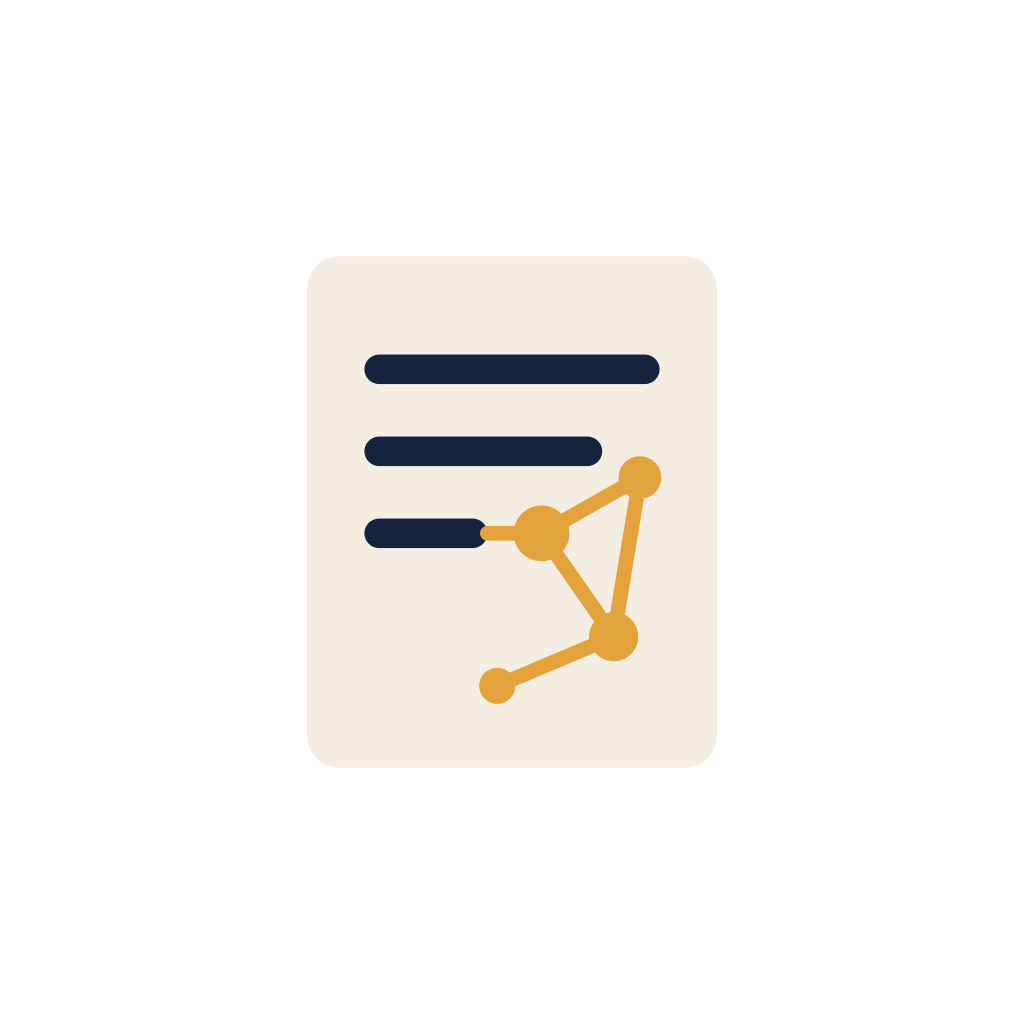
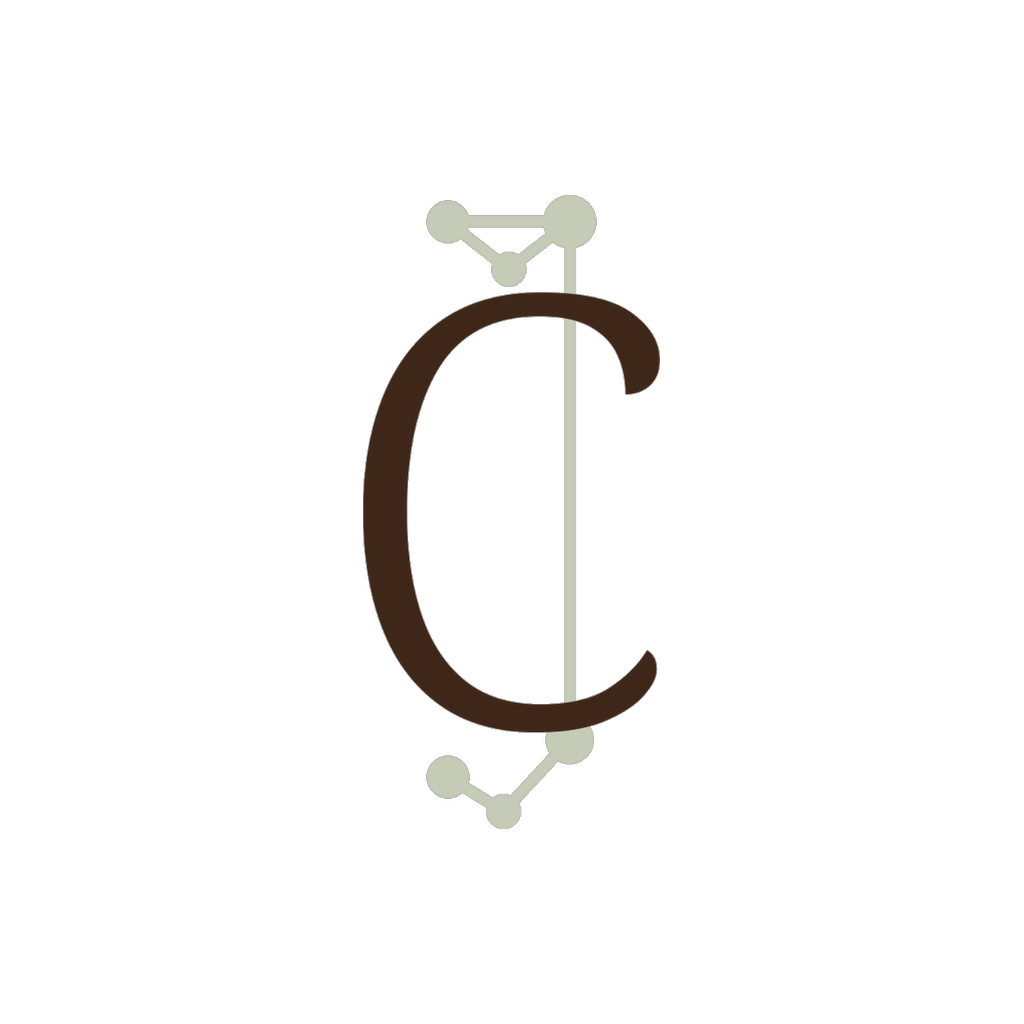
fix(release): sideload signing guard + cj-c-v3 Android brand + review hygiene (MAJOR 7.0.0)
Spec: specs/2026-11-06-sideload-signing-brand-followup/spec.md

Release-blocking fixes from the #86/#85 high-depth reviews:
- Guard plugin refuses local *Release* gradle tasks when
  credentials/keystore.properties is absent (fresh clones would
  silently sign with the PUBLIC debug keystore); no-op on EAS.
- VERSIONING.md: mandatory post-build keytool cert check vs the
  upload-key SHA-256; upload-key lineage of record stated (GitHub
  APKs from 7.0.0 = upload keystore); bullet 1/3 migration-note
  contradiction resolved; store step 2 marked done with its open
  obligation moved to the store checklist; github-apk profile
  lineage warning added.
- Android adaptive set + splash derived from the approved 1024
  master (the #85 spec's own deferred follow-up): keyed monogram
  foreground in the safe zone, cream background field, white
  monochrome silhouette, rounded-tile splash icon.

Hygiene (9 findings): README specs path -> specs/; AGENTS.md single
decisions list; .gitignore /credentials/ rule documented and
/credentials.json dedupe; store previews -> JPEG (~75% smaller);
merged #85 spec Files-touched completed.

MAJOR 7.0.0: adaptive/splash assets + app.json plugin regenerate the
native tree (VERSIONING.md rule 1). Verified: prebuild guard +
versionName/runtime stamps, lint 0 errors, tsc clean, 362 tests pass.

Changed region(s): [[0.2812, 0.1875, 0.7188, 0.8125]]

diff --git a/plugins/with-sideload-release-guard.js b/plugins/with-sideload-release-guard.js
@@ -1,0 +1,43 @@
+const { withAppBuildGradle } = require("@expo/config-plugins");
+
+/**
+ * Sideload release guard (specs/2026-11-06-sideload-signing-brand-followup).
+ *
+ * The template build.gradle signs release builds with the PUBLIC debug
+ * keystore whenever ../credentials/keystore.properties is missing — the
+ * state of every fresh clone. This plugin appends a Gradle guard that
+ * fails any `*Release*` task loudly in that situation, so a release APK
+ * can never silently extend the public debug-key lineage.
+ *
+ * No-op when keystore.properties exists (local builds sign via the
+ * template's own wiring) and on EAS, which supplies its own
+ * keystore.properties during store builds.
+ */
+const GUARD = `
+// Sideload release guard — specs/2026-11-06-sideload-signing-brand-followup
+// Refuse release builds that would silently sign with the public debug
+// keystore. EAS supplies its own keystore.properties during store builds,
+// so this only fires on machines missing credentials/.
+if (!System.getenv("EAS_BUILD") && !rootProject.file("../credentials/keystore.properties").exists()) {
+    tasks.whenTaskAdded { task ->
+        if (task.name.contains("Release")) {
+            task.doFirst {
+                throw new GradleException(
+                    "Release build refused: ../credentials/keystore.properties is missing, so this build would be signed with the PUBLIC debug keystore. Restore credentials/ (see docs/VERSIONING.md) or build on EAS."
+                )
+            }
+        }
+    }
+}
+`;
+
+const withSideloadReleaseGuard = (config) =>
+  withAppBuildGradle(config, (mod) => {
+    if (mod.modResults.contents.includes("Sideload release guard")) {
+      return mod; // idempotent across repeated prebuilds
+    }
+    mod.modResults.contents += GUARD;
+    return mod;
+  });
+
+module.exports = withSideloadReleaseGuard;

diff --git a/specs/2026-11-06-sideload-signing-brand-followup/spec.md b/specs/2026-11-06-sideload-signing-brand-followup/spec.md
@@ -1,0 +1,140 @@
+# Spec: sideload signing guard + brand follow-up + review-hygiene
+
+**Status: Draft** — 2026-11-06. One PR carries spec + plan + implementation
++ version bump; `plan.md`/`LEDGER.md` are transient and deleted in the
+same-PR cleanup commit (AGENTS.md SDD workflow).
+
+## Why this cycle exists
+
+Three sources converge:
+
+1. **#86 high-depth review (finding 1, release-blocking):** VERSIONING.md
+   declares the public debug keystore retired as a GitHub-APK identity,
+   but nothing enforces it. The generated `android/app/build.gradle`
+   signs release builds with `debug.keystore` whenever
+   `../credentials/keystore.properties` is absent — the state of every
+   fresh clone (`credentials/` is gitignored) — and the old
+   `keytool -printcert` verification step was deleted in #86. A release
+   built from a fresh clone would silently extend the public-key
+   lineage past v5.0.0, which the doc says must never happen.
+2. **#85 high-depth review (finding 1, release-blocking):** the brand
+   cycle replaced `icon.png`/`favicon.png` but not the Android adaptive
+   set; with `minSdkVersion: 26` every supported Android device renders
+   `android.adaptiveIcon.foregroundImage` — still the old placeholder
+   art. The merged spec's own "Splash drift (accepted)" ruling deferred
+   adaptive icons and `splash-icon.png` to a fast follow-up "that wires
+   it into app.json properly"; this is that follow-up.
+3. **#86/#85 reviews (9 further findings):** docs and repo hygiene that
+   this cycle fixes inline (user ruling 2026-11-06: "fix everything
+   now").
+
+Checked against `INTENT.md`: no rule touched. Rule 10 drives the bump:
+both blockers feed native prebuild (adaptive/splash assets regenerate
+launcher and splash resources; the guard adds an `app.json` plugin), the
+regenerated tree differs beyond version stamps → **MAJOR**. No network,
+no background work, no privacy-surface change (rules 1–14 unaffected).
+
+## Requirements
+
+### R1 — Local release builds can never silently sign with the debug keystore
+
+- `plugins/with-sideload-release-guard.js`: an Expo config plugin whose
+  Android mod appends a Gradle guard to `android/app/build.gradle`:
+  when `../credentials/keystore.properties` does not exist (and the
+  build is not on EAS, which supplies its own `keystore.properties`),
+  every task whose name contains `Release` fails at execution with a
+  GradleException naming `docs/VERSIONING.md` as the remedy. Debug
+  builds and non-build tasks are unaffected.
+- Wired in `app.json` `plugins` as a local plugin (`"./plugins/with-sideload-release-guard"`).
+- No-op when `keystore.properties` exists (the EAS store-build path is
+  untouched; the template's own keystore.properties wiring does the
+  signing).
+
+### R2 — GitHub-APK signing lineage is explicit and verifiable
+
+- Local release builds sign with the EAS upload keystore via the
+  existing `../credentials/keystore.properties` (SHA-1
+  `10:F4:9C:AF:F4:78:3F:75:D8:0A:F8:E8:95:CA:C7:9C:03:1B:14:48`,
+  SHA-256
+  `E9:45:EC:20:6C:3A:03:C5:BC:99:AB:D4:BA:8F:A8:33:57:61:0E:DB:40:AF:67:9E:8C:59:0C:52:51:57:EF:70`,
+  verified 2026-11-06 with `keytool -list` against
+  `credentials/android/keystore.jks`).
+- VERSIONING.md release train gains a mandatory post-build certificate
+  check (`keytool -printcert -jarfile`) that must match the recorded
+  SHA-256 before any release ships; mismatch = stop.
+
+### R3 — Android adaptive set and splash carry the cj-c-v3 brand
+
+Derived from the approved 1024 master (`assets/images/icon.png`) — no
+designer variants exist for these slots; the derivation is this cycle's
+recorded ruling and the PR shows the rendered results:
+
+- `android-icon-foreground.png`: monogram-only (C + sage J keyed out of
+  the cream field), scaled to fit the adaptive safe zone (~62% of the
+  1024 canvas), centered on transparency.
+- `android-icon-background.png`: solid cream field sampled from the
+  master (replaces the navy placeholder background so the masked tile
+  matches the iOS icon).
+- `android-icon-monochrome.png`: white silhouette of the same keyed
+  monogram at the same scale/placement (Android 13+ themed icons).
+- `splash-icon.png`: brand mark prepared for the navy splash
+  background — the master rendered inside a cream rounded-square tile
+  (`app.json` splash `imageWidth: 160` unchanged; splash
+  `backgroundColor` stays `#16233F`).
+- `android.adaptiveIcon.backgroundColor` stays `#16233F` (fallback only).
+
+### R4 — Review hygiene (9 findings, all docs/assets plumbing)
+
+1. `README.md` contributor section points specs at `specs/` (was
+   `docs/superpowers/specs/`).
+2. Merged spec `specs/2026-11-05-brand-favicons/spec.md` "Files touched"
+   amended to list everything that PR actually touched (INTENT.md,
+   app.json, package.json, package-lock.json were omitted).
+3. Store preview mockups (`curated-journal-banner-preview.png`,
+   `curated-journal-store-assets-preview.png`) converted to JPEG
+   (Play accepts it; ~70% weight cut). Deliverable PNGs stay. Git
+   history keeps the original blobs — noted, not rewritten.
+4. `AGENTS.md` "where decisions live" stated once: charter INTENT.md,
+   versioning docs/VERSIONING.md, in-flight cycles the spec folder,
+   everything else the recorded history (issues/PRs) — the duplicate
+   Spec-workflow bullet is removed.
+5. VERSIONING.md: the `github-apk` EAS profile mention carries its
+   lineage warning (an EAS- or upload-key-built APK does not install
+   over fielded debug-signed sideloads).
+6. VERSIONING.md: bullet 1 vs bullet 3 contradiction resolved in bullet
+   3's favor — hand-migration warnings are required only for releases
+   whose signing key changed (that includes R2's lineage statement).
+7. VERSIONING.md: store-release step 2 rewritten as completed one-time
+   setup (past tense), with its still-open obligation (verify upload
+   key under Play App integrity; record the Google app-signing key)
+   moved into the store checklist.
+8. VERSIONING.md: the upload-key SHA-1 gains a verify command
+   (`keytool -list` against `credentials/android/keystore.jks`) and a
+   mismatch consequence.
+9. `.gitignore`: `/credentials/` rule commented; duplicated
+   `/credentials.json` rules collapsed to one.
+
+## Acceptance criteria
+
+- `npx expo prebuild --platform android --no-install` on this branch:
+  generated `build.gradle` contains the guard; with
+  `credentials/keystore.properties` present, release signing config is
+  the upload keystore; guard is a no-op.
+- With `credentials/keystore.properties` temporarily renamed, the guard
+  makes any `*Release*` Gradle task fail loudly (verified by inspecting
+  the generated guard; the execution-path test happens at the release
+  train, not in CI).
+- Image outputs verified: 1024×1024, correct alpha behavior (foreground
+  transparent margins; monochrome white; background opaque cream).
+- `npm run lint` 0 errors; `npx tsc --noEmit` clean; jest suite green.
+- Version bumped to **7.0.0** in `package.json`, `app.json`,
+  `package-lock.json` (three synced files, same PR).
+
+## Non-goals
+
+- No runtime/app-code changes; no privacy-surface change.
+- No store submissions, tags, or builds in this PR (the release train
+  follows at merge, per docs/VERSIONING.md, only when the user says so).
+- No git-history rewrite for the preview PNG blobs.
+- No new signing identity: the EAS upload keystore remains the store
+  upload key and, from 7.0.0, the GitHub-APK sideload lineage of record.

diff --git a/docs/VERSIONING.md b/docs/VERSIONING.md
@@ -57,7 +57,15 @@ moves on a MAJOR, so this test behaves as originally intended —
    files for what shipped — and confirm the manifest meta-data on the artifact
    with `aapt2 dump xmltree --file AndroidManifest.xml` (the
    `EXPO_UPDATES_CHECK_ON_LAUNCH` entry must say `NEVER`; `dump badging` does
-   not show manifest meta-data).
+   not show manifest meta-data). **And verify the signing certificate:**
+   `keytool -printcert -jarfile android/app/build/outputs/apk/release/app-release.apk`
+   must show SHA-256
+   `E9:45:EC:20:6C:3A:03:C5:BC:99:AB:D4:BA:8F:A8:33:57:61:0E:DB:40:AF:67:9E:8C:59:0C:52:51:57:EF:70`
+   (the upload-key lineage of record, verified 2026-11-06). Any other
+   certificate — above all `FA:C6:17:45:…:3B:9C`, the public debug key — means
+   the build fell back to the debug keystore: stop, restore
+   `credentials/keystore.properties`, rebuild. (The guard plugin refuses such
+   builds outright; this check is the backstop.)
 5. Tag `vX.Y.Z` at the merge commit of the PR that carried the bump, create the
    GitHub release with the APK attached, and read back the asset byte-size from
    the release API. Release notes for the first post-#68 release (3.1.0+) must
@@ -69,10 +77,13 @@ moves on a MAJOR, so this test behaves as originally intended —
 Store builds run on EAS, not this machine, so the `heavy-build` and bare-gradle
 rules above don't apply to them. Steps 3–5 of the release train above stay as
 they are for the sideload APK on GitHub releases (or use the `github-apk` EAS
-profile).
+profile — but note an APK built through EAS is signed with the EAS upload key
+and does **not** install over the fielded debug-signed sideloads; see bullet 3
+before choosing that path).
 
 1. Merge the PR that carries the bump, then tag `vX.Y.Z` as in step 5.
-2. **Before the first store release only**: settle Android signing. The
+2. **Done once, 2026-11-05** — Android signing settled at the first store
+   release. Recorded because the consequences are permanent. The
    fielded sideload APKs (2.0.0–4.x) carry `debug.keystore`, whose private
    half is **public** — the file is byte-identical to the template keystore
    Expo ships in the public `expo/expo` repo (storepass `android`, SHA-256
@@ -84,13 +95,22 @@ profile).
    permanent:
    - Store builds share no signature with any fielded sideload binary.
      Every existing sideload install must migrate by hand: OKF export →
-     uninstall → install from Play → OKF import. Store release notes — and
-     GitHub release notes published after the store release — must say so.
+     uninstall → install from Play → OKF import. Store release notes must
+     say so. (GitHub release notes carry the hand-migration warning only
+     when that release's signing key changed — see bullet 3.)
    - The EAS keystore stays the **upload key** only (upload SHA-1
-     `10:F4:9C:AF:F4:78:3F:75:D8:0A:F8:E8:95:CA:C7:9C:03:1B:14:48`).
-     After the first upload, verify it under Release → Setup → App
-     integrity; the app-signing key shown there will be the new Google
-     key — record its fingerprint with the release notes.
+     `10:F4:9C:AF:F4:78:3F:75:D8:0A:F8:E8:95:CA:C7:9C:03:1B:14:48`;
+     certificate SHA-256
+     `E9:45:EC:20:6C:3A:03:C5:BC:99:AB:D4:BA:8F:A8:33:57:61:0E:DB:40:AF:67:9E:8C:59:0C:52:51:57:EF:70`).
+     Verify the local copy after any EAS credentials change:
+     `keytool -list -v -keystore credentials/android/keystore.jks` with
+     the `storePassword` from `credentials/keystore.properties` — if the
+     SHA-1 differs, EAS regenerated the keystore and every lineage
+     assumption in this document is stale: stop and re-verify before any
+     release. At each Android store release, check Release → Setup → App
+     integrity (the upload key matches the SHA-1 above; the app-signing
+     key is the Google key) and record that key's fingerprint in the
+     release notes.
    - GitHub sideload APKs and Play installs never cross-update. Within
      GitHub releases, each signing key is its own update lineage: the
      v5.0.0 GitHub APKs were built locally and signed with the legacy
@@ -100,7 +120,10 @@ profile).
      **not** install over fielded v5.0.0 sideloads; a sideload signing
      change means the same hand migration as the store channel (OKF
      export → uninstall → install → OKF import) and must say so in that
-     release's notes.
+     release's notes. From v7.0.0 this is the standing case for local
+     builds: they sign with the EAS upload keystore via
+     `../credentials/keystore.properties`, so every GitHub APK release
+     from that version on needs the hand-migration warning.
 3. Run the **EAS store build and submit** workflow **at the tag** — in the
    Actions tab's "Run workflow" ref picker choose `vX.Y.Z`, or run
    `gh workflow run eas-store-release.yml --ref vX.Y.Z`. Dispatching from a

diff --git a/specs/2026-11-06-sideload-signing-brand-followup/plan.md b/specs/2026-11-06-sideload-signing-brand-followup/plan.md
@@ -1,0 +1,28 @@
+# Plan — sideload signing guard + brand follow-up
+
+Transient scaffolding (AGENTS.md SDD); deleted in the same-PR cleanup
+commit. Spec: `spec.md` in this folder.
+
+## Steps
+
+1. **Assets** (R3): `/tmp` PIL script — sample cream from master; chroma-key
+   monogram (RGB distance, feathered alpha); scale to 62% safe zone; write
+   foreground (transparent), background (solid cream), monochrome (white
+   silhouette), splash-icon (cream rounded-square tile). sips: convert the
+   two store previews to JPEG.
+2. **Guard plugin** (R1): `plugins/with-sideload-release-guard.js` using
+   `withAppBuildGradle`; append guard block; wire in `app.json` plugins.
+3. **Docs** (R2 + R4): VERSIONING.md (cert check, lineage statement,
+   bullet-1/3 fix, step-2 tense, SHA-1 verify command, github-apk warning);
+   README specs path; AGENTS.md single decisions list; `.gitignore`
+   comment/dedupe; old-spec Files-touched amendment.
+4. **Bump**: 7.0.0 in package.json (npm version), app.json (edit),
+   package-lock.json (npm version handles).
+5. **Verify**: `npx expo prebuild --platform android --no-install` → grep
+   guard + signing wiring in generated tree; lint / tsc / jest.
+6. **PR**: draft → CI + reviews → implemented → cleanup commit (delete
+   plan.md/LEDGER.md) → merge.
+
+## Decisions while in flight
+
+See LEDGER.md.

diff --git a/specs/2026-11-06-sideload-signing-brand-followup/LEDGER.md b/specs/2026-11-06-sideload-signing-brand-followup/LEDGER.md
@@ -1,0 +1,18 @@
+# LEDGER — 2026-11-06-sideload-signing-brand-followup
+
+Transient decision log while the cycle is in flight. Deleted in the
+same-PR cleanup commit.
+
+- 2026-11-06 — User ruling (this session): all 11 review findings fixed
+  now, blockers + hygiene in one PR; release train only after blockers.
+- 2026-11-06 — Bump is MAJOR 7.0.0, not PATCH: adaptive/splash assets and
+  an `app.json` plugin both feed native prebuild (VERSIONING rule 1; same
+  reasoning as #85's 6.0.0).
+- 2026-11-06 — No new keystore: `credentials/keystore.properties` already
+  points at the EAS upload keystore (verified SHA-1/SHA-256 via keytool);
+  GitHub-APK lineage from 7.0.0 = upload key, doc'd in VERSIONING.md, so
+  the gap reduces to guard + verification + docs.
+- 2026-11-06 — Adaptive art derived from the 1024 master by chroma-key
+  (no designer variants exist); PR shows rendered results for approval.
+- 2026-11-06 — Guard no-ops when keystore.properties exists (EAS path
+  untouched); EAS supplies its own properties, so store builds unaffected.

diff --git a/AGENTS.md b/AGENTS.md
@@ -56,7 +56,9 @@ workflow section below).
 
 - Charter: `INTENT.md` (repo root).
 - Versioning/OTA policy: `docs/VERSIONING.md`.
-- Everything else: GitHub issues and PR discussions in this repo.
+- In-flight cycles: the spec folder (`specs/<name>/`).
+- Everything else: the recorded decision history — GitHub issues and PR
+  discussions in this repo.
 
 ## Spec workflow (SDD)
 
@@ -75,5 +77,3 @@ workflow section below).
   no Built/Planned status lines, no delivery progress. Implementation
   status lives in the spec's status line and LEDGER while in flight, and
   in the delivery records after merge.
-- **Where decisions live:** the spec folder while in flight; the recorded
-  decision history after merge.

diff --git a/specs/2026-11-05-brand-favicons/spec.md b/specs/2026-11-05-brand-favicons/spec.md
@@ -67,6 +67,10 @@ into `app.json` properly.
 - `assets/images/icon.png` (replaced)
 - `assets/store/*` (6 files)
 - `AGENTS.md` (one block + pointer update)
+- `INTENT.md` (static-INTENT rule codified; amended 2026-11-06: this
+  list originally omitted INTENT.md and the version files — see
+  `specs/2026-11-06-sideload-signing-brand-followup/`)
+- `app.json`, `package.json`, `package-lock.json` (6.0.0 MAJOR bump)
 
 ## Test plan
 

diff --git a/README.md b/README.md
@@ -235,7 +235,7 @@ docs/
 
 This repository is intended as an open-source reference implementation. Before opening a PR:
 
-1. Read the [technical specifications](./docs/superpowers/specs/)
+1. Read the [technical specifications](./specs/)
 2. Follow existing code conventions in `src/`
 3. Consult [Expo SDK 58 docs](https://docs.expo.dev/versions/v58.0.0/) for platform APIs
 
